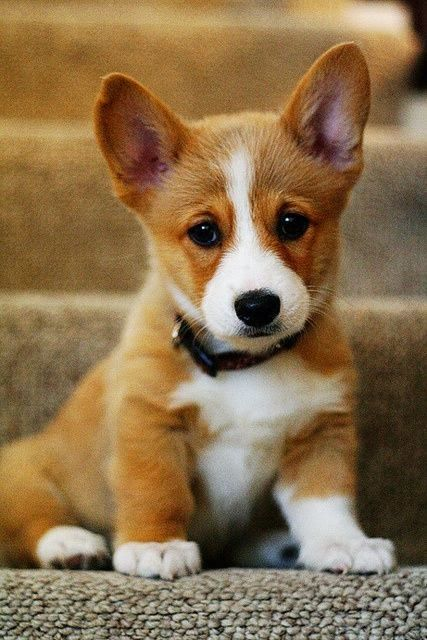
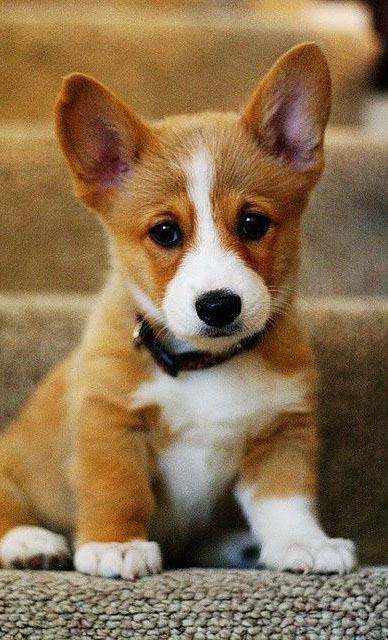
Update demo project, use content mode

diff --git a/ImageScrollViewDemo/ImageScrollViewDemo/ViewController.swift b/ImageScrollViewDemo/ImageScrollViewDemo/ViewController.swift
@@ -27,6 +27,8 @@ class ViewController: UIViewController {
     
     override func viewDidAppear(_ animated: Bool) {
         super.viewDidAppear(animated)
+        imageScrollView.imageContentMode = .aspectFit
+        imageScrollView.initialOffset = .center
         imageScrollView.display(image: images[index])
     }
 
